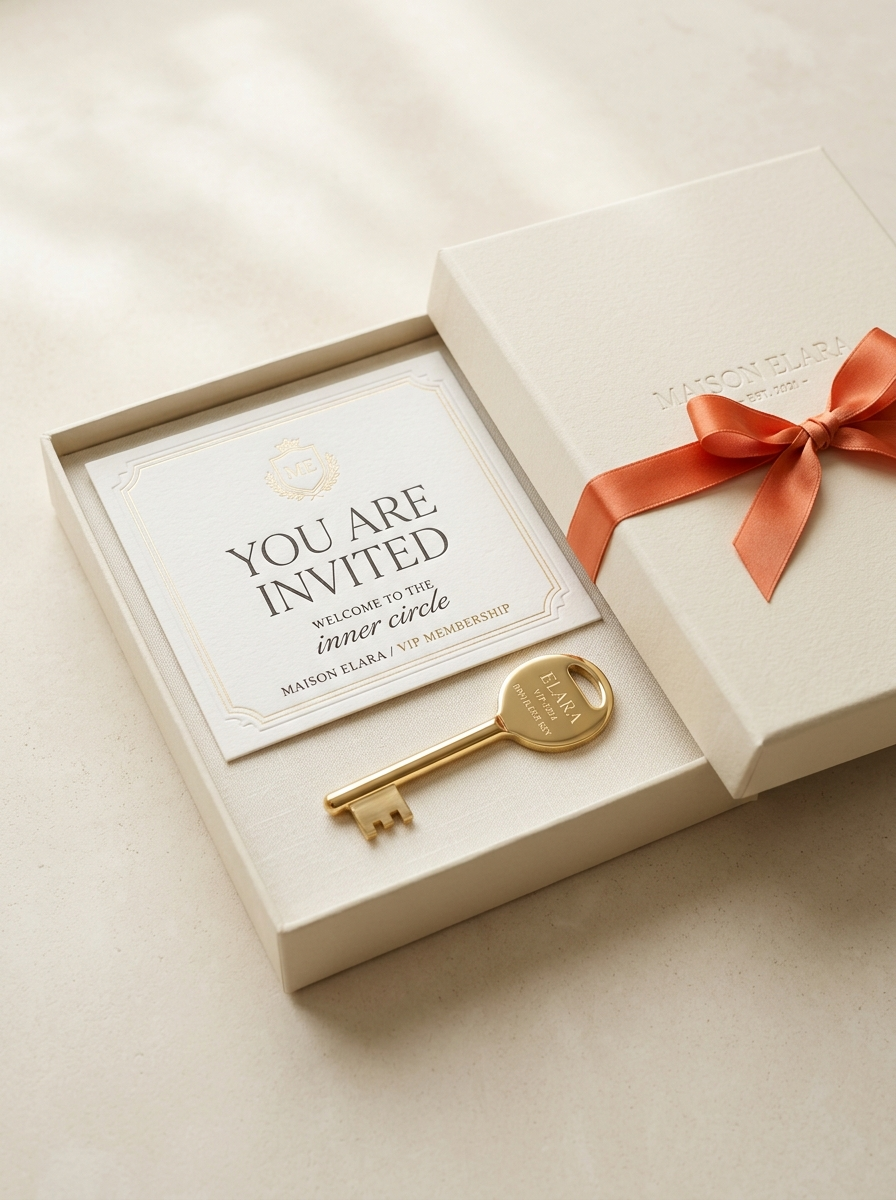
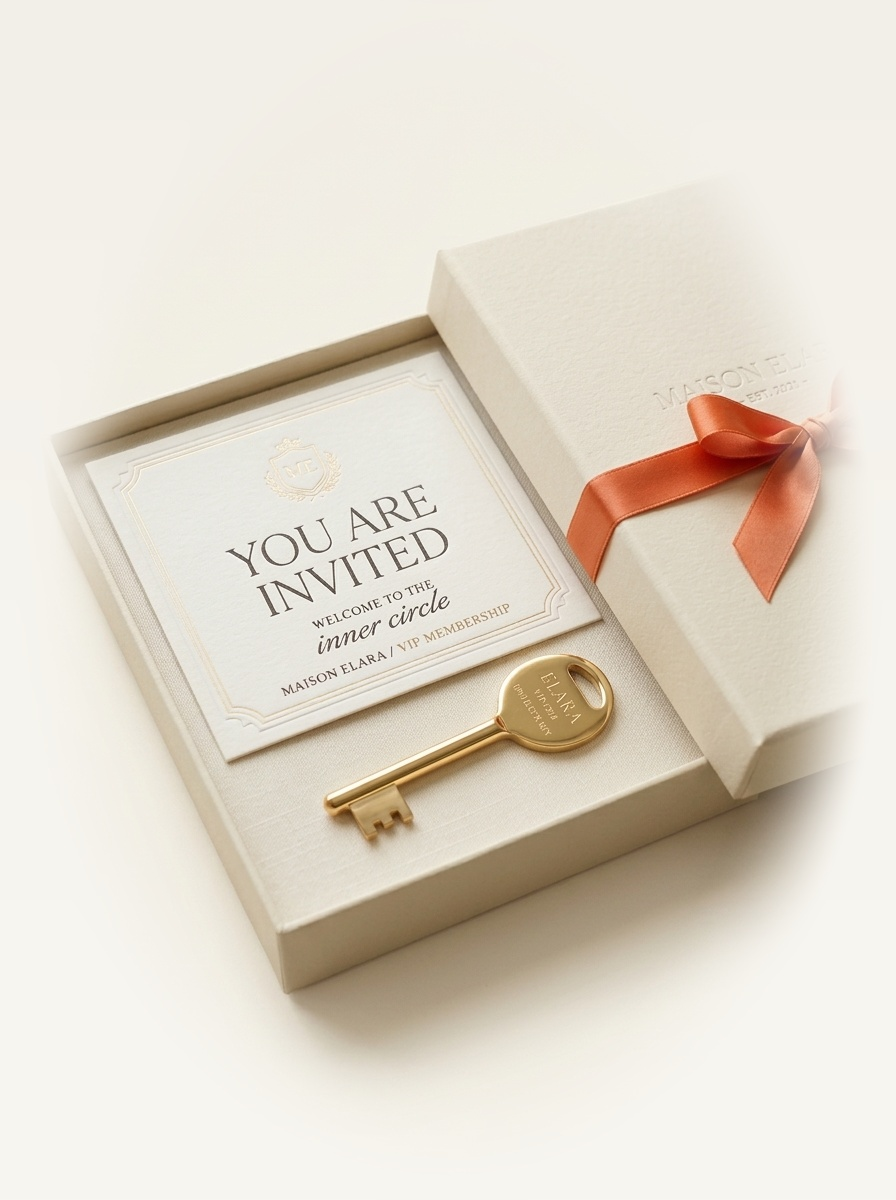
[STYLE] Seamlessly blend RegisterPage artwork background with ivory gradient container

diff --git a/src/pages/RegisterPage.tsx b/src/pages/RegisterPage.tsx
@@ -336,7 +336,7 @@ export default function RegisterPage() {
               >
                 {/* Bespoke Luxury VIP Welcome Box Artwork */}
                 <img
-                  src="/images/register-art.jpg"
+                  src="/images/register-art.jpg?v=2"
                   alt="Zora VIP Membership Welcome Invitation"
                   style={{
                     maskImage: 'radial-gradient(ellipse 90% 86% at 50% 50%, black 62%, transparent 96%)',
